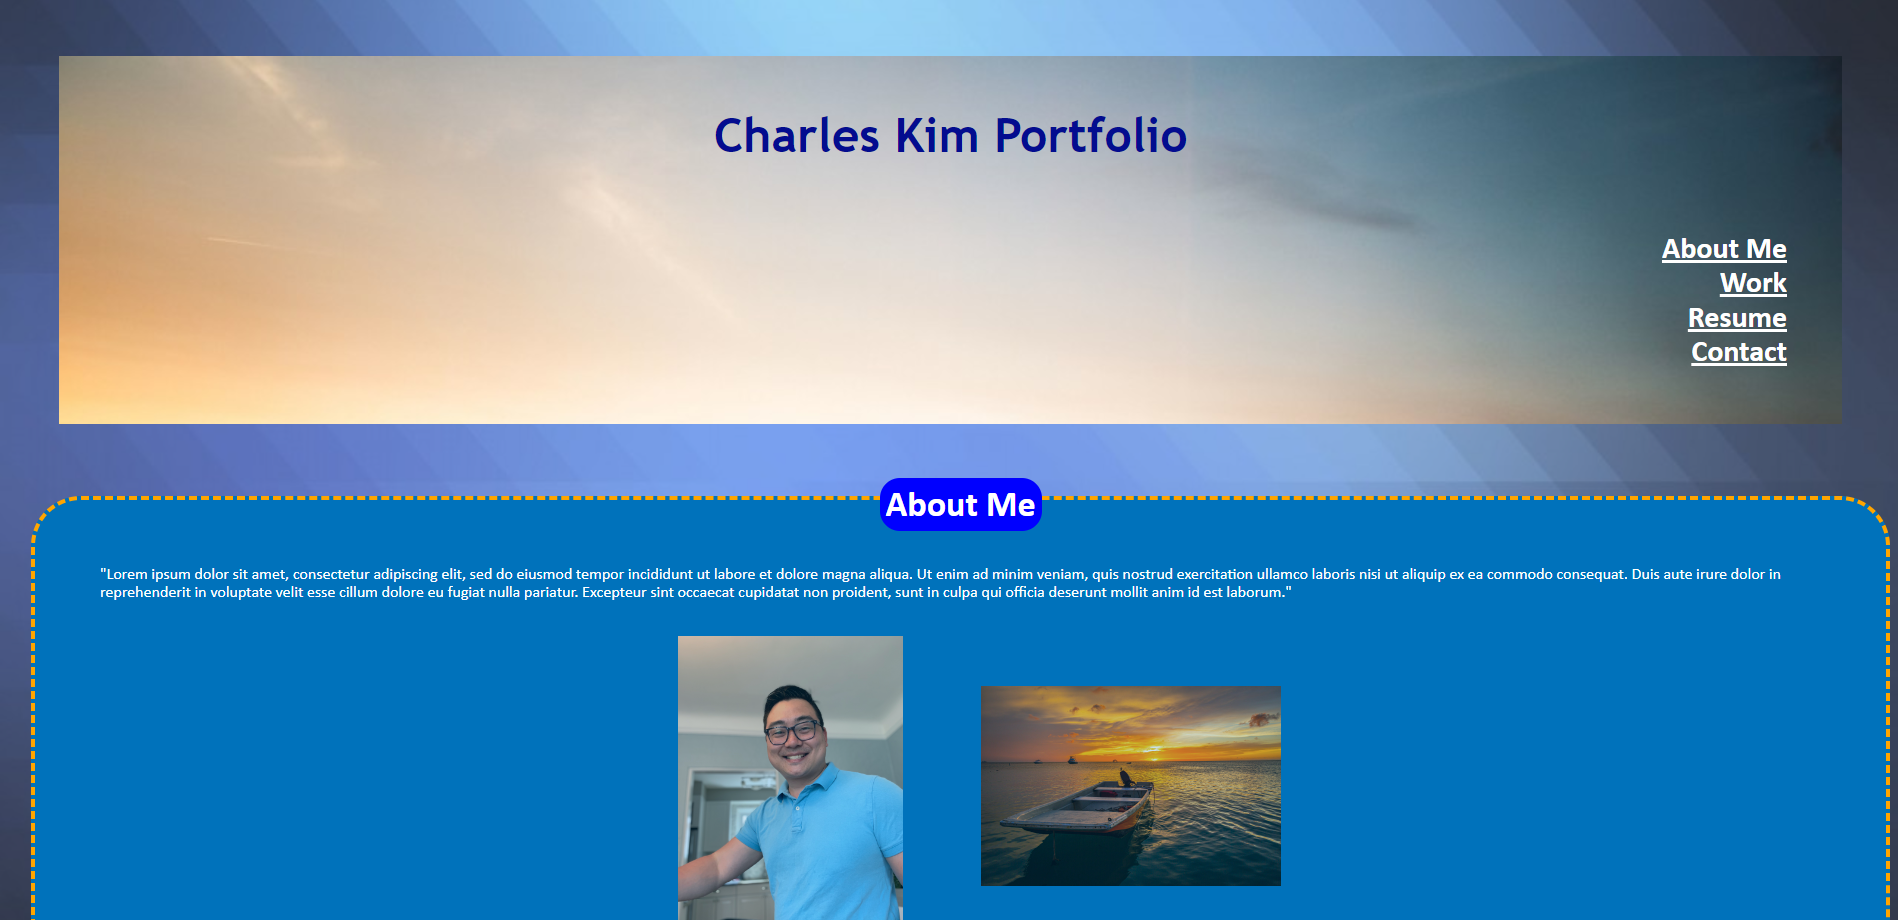
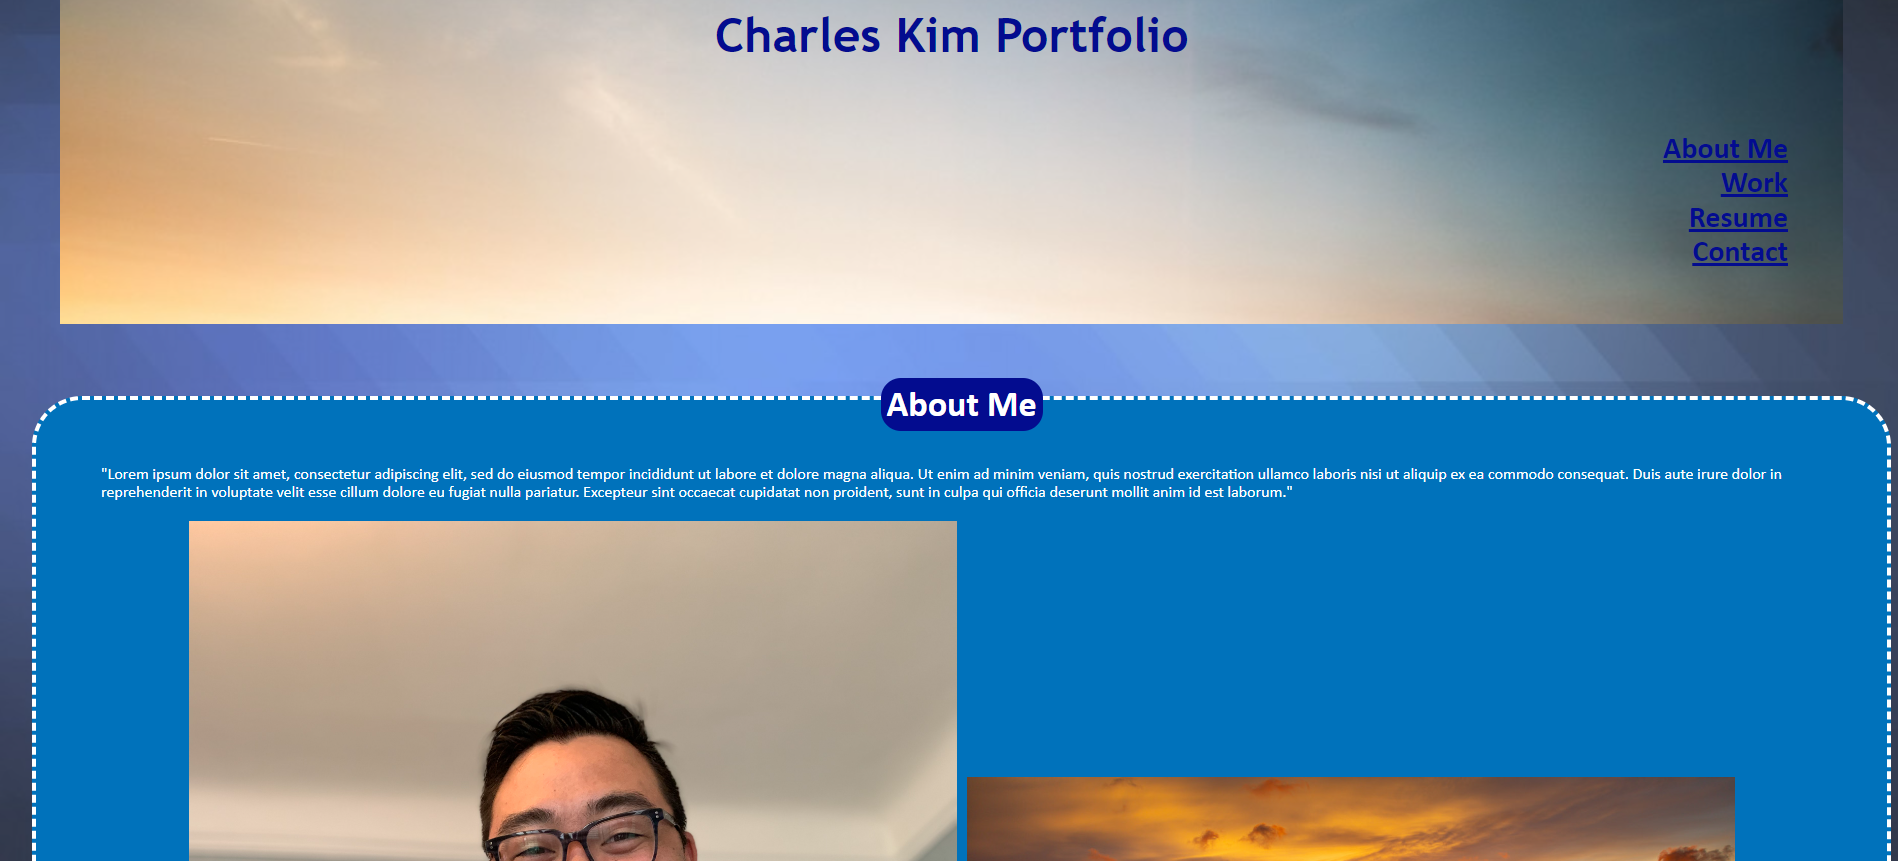
final changes 10.6.22

diff --git a/assets/css/style.css b/assets/css/style.css
@@ -7,8 +7,8 @@
 /* variables */
 :root {
   /* colors */
-  --blue1: rgb(0, 72, 114);
-  --blue2: blue;
+  --blue1: rgb(0, 247, 255);
+  --blue2: #030c8f;
   --white: white;
 
   /* fonts */
@@ -21,8 +21,9 @@
   --spacing-unit-large: 48px;
 }
 
+/* body styling */
+
 body {
-  background-color: #d9dcd6;
   background-image: url("../img/background_blue_gradient-1201694.jpg");
   background-size: cover;
   display: flex;
@@ -37,10 +38,10 @@ header {
   margin: 60px;
   font-family: "Trebuchet MS", "Lucida Sans Unicode", "Lucida Grande",
     "Lucida Sans", Arial, sans-serif;
-  background-color: #0072bb;
+  background-color: var(--blue1);
   background-image: url("../img/chicago_usa_america_united_states_city_skyscrapers_ocean_building-744301.jpg");
   background-size: cover;
-  color: #030c8f;
+  color: var(--blue2);
 }
 
 header h1 {
@@ -77,20 +78,24 @@ header img {
 }
 
 a {
-  color: #ffffff;
-  text-decoration: underline;
+  color: var(--blue2);
   display: flex;
   justify-content: center;
   align-content: center;
 }
-
-a:hover {
-  color: #0075fc;
-  background-color: #ffffff;
+a img {
+  max-width: fit-content;
+  border-width: 3px;
+  border-style: solid;
 }
 
-figure a:hover {
-  box-shadow: inset 0px 0px 12px orange, 0px 0px 12px orange;
+a:hover {
+  color: var(--blue1);
+  box-shadow: inset 0px 0px 12px var(--white), 0px 0px 12px var(--white);
+}
+
+a img:hover {
+  box-shadow: inset 0px 0px 12px var(--white), 0px 0px 12px var(--white);
 }
 
 p {
@@ -110,7 +115,7 @@ main {
 /* figure styling */
 
 figure {
-  border: 4px dashed orange;
+  border: 4px dashed var(--white);
   margin: var(--spacing-unit-small);
   padding: var(--spacing-unit);
   position: relative;
@@ -119,7 +124,7 @@ figure {
 }
 
 figure:hover {
-  box-shadow: inset 0px 0px 12px orange, 0px 0px 12px orange;
+  box-shadow: inset 0px 0px 12px var(--white), 0px 0px 12px var(--white);
 }
 
 figcaption {
@@ -142,9 +147,9 @@ h2 {
   font-size: 36px;
 }
 
-section img {
+/* section img {
   opacity: 0.8;
-}
+} */
 
 /* classes */
 
@@ -152,8 +157,8 @@ section img {
   display: flex;
   flex-direction: column;
   width: 100%;
-  justify-content: center;
-  align-content: center;
+  /* justify-content: center;
+  align-content: center; */
 }
 
 .content {
@@ -166,17 +171,38 @@ section img {
   color: #ffffff;
   display: flex;
   flex-direction: column;
-  justify-content: center;
-  align-content: center;
+  /* justify-content: center;
+  align-content: center; */
+  align-items: center;
 }
 
 .content img {
   display: flex;
-  height: 300px;
-  width: 300px;
+  max-width: 40vw;
   object-fit: contain;
-  margin: 20px;
+  margin: 5px;
   flex-wrap: wrap;
+}
+
+.project1Picture {
+  min-width: 75vw;
+}
+
+/* Container holding the image and the text */
+.container {
+  position: relative;
+  text-align: center;
+}
+
+/* Bottom left text */
+.bottom-left {
+  position: absolute;
+  bottom: 40px;
+  left: 8px;
+  background-color: var(--blue1);
+  color: var(--blue2);
+  font-size: 48px;
+  font-weight: 900;
 }
 
 /* id classes */
@@ -187,12 +213,8 @@ section img {
 
 #work-images {
   justify-content: center;
-}
-
-#project-1-picture {
-  height: 500px;
-  width: 500px;
-  object-fit: contain;
+  display: flex;
+  flex-wrap: wrap;
 }
 
 /* atomic classes */
@@ -238,7 +260,7 @@ footer h3 {
 /* media queries */
 /* medium > 768px */
 @media screen and (min-width: 975px) {
-   #work-images {
+  #work-images {
     display: flex;
     flex-direction: row;
   }

diff --git a/index.html b/index.html
@@ -54,18 +54,24 @@
           </figcaption>
           <div id="work-images">
             <a
+              class="container"
               href="https://ckim812.github.io/01-HTML-Git-CSS--Sprint-1-Challenge-Refactoring/"
               ><img
-                id="project-1-picture"
+                class="project1Picture"
                 src="./assets/img/Challenge 1 Preview.png"
                 alt="project 1 picture"
-            /></a>
+              />
+              <div class="bottom-left">Sprint 1 Challenge</div>
+            </a>
             <a
+            class="container"
               href="https://ckim812.github.io/01-HTML-Git-CSS--Sprint-1-Challenge-Refactoring/"
               ><img
                 src="./assets/img/hot air balloons.jpg"
                 alt="hot air balloons"
-            /></a>
+            />
+            <div class="bottom-left">Application #2</div>
+          </a>
           </div>
         </figure>
         <figure id="resume" class="content" tabindex="0">
@@ -90,9 +96,7 @@
           <h2>Contact</h2>
           <figcaption>Get in touch with me!</figcaption>
           <a href="https://github.com/ckim812"
-            ><img
-              src="https://upload.wikimedia.org/wikipedia/commons/9/95/Font_Awesome_5_brands_github.svg"
-              alt="GitHub"
+            ><img src="./assets/img/Octocat.jpg" alt="GitHub"
           /></a>
         </figure>
       </section>
